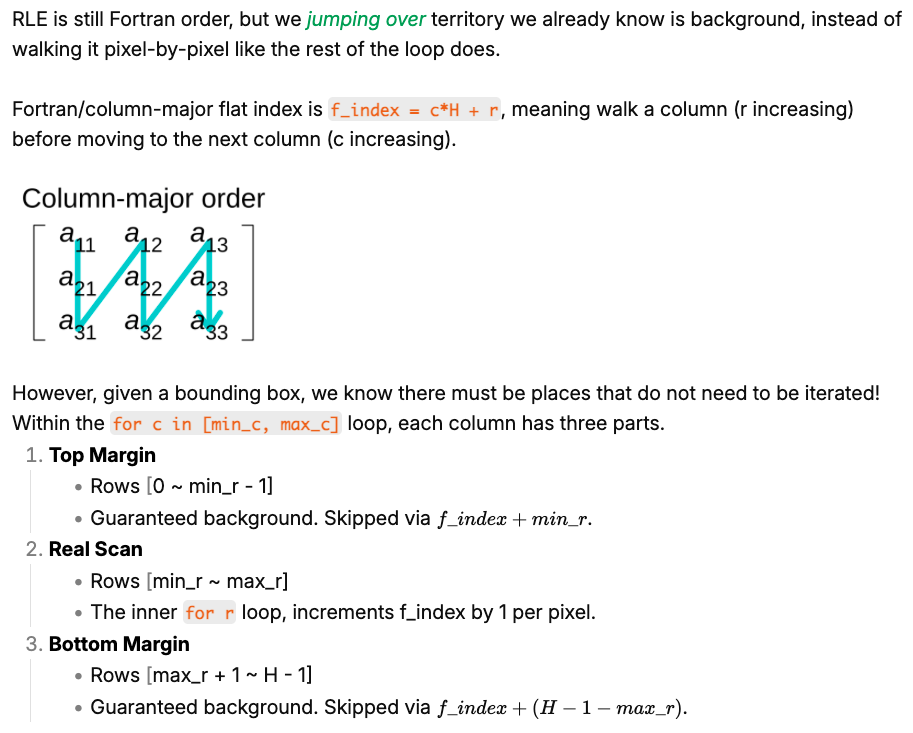
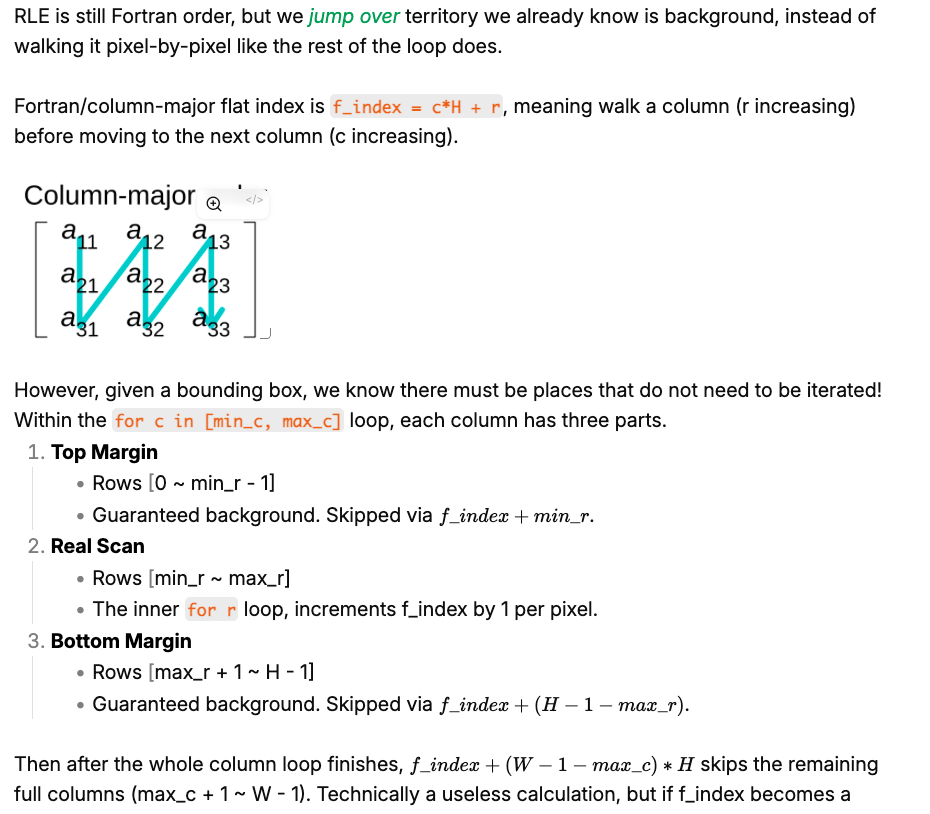
feat(nit): fixed grammar issues

Changed region(s): [[0.0, 0.1201, 0.9814, 0.9905], [0.0, 0.0, 1.0, 0.09]]

diff --git a/src/App.vue b/src/App.vue
@@ -6,16 +6,6 @@ import Footer from './sections/Footer.vue'
 
 <template>
     <SpeedInsights/>
-    <!--
-        Parallax footer reveal, CSS-only:
-        - This wrapper is at least one viewport tall and paints above the footer (z-10).
-          Its bg-fixed background stays put while the page scrolls, and is clipped to
-          the wrapper, so the footer underneath stays hidden until the content ends.
-        - The footer below is `sticky bottom-0` in normal document flow: it pins to the
-          bottom of the viewport and gets revealed as the content scrolls past it.
-        Because everything scrolls with the document (no inner scroll container, no
-        position:fixed), wheel and touch scrolling keep working over the footer.
-    -->
     <div class="relative z-10 flex min-h-svh flex-col bg-[url(/src/assets/background.jpg)] bg-cover bg-fixed text-white">
         <Navbar/>
         <RouterView v-slot="{ Component }">

diff --git a/src/views/ExperienceView.vue b/src/views/ExperienceView.vue
@@ -26,11 +26,11 @@ const timelineEntries = ref([
             },
             { 
                 image: Statsyuk2, 
-                caption: "Nearly 50% runtime saved from making introducing independent pass scheduler modes. Turns out the multipass barrier stream was not a necessity."
+                caption: "Nearly 50% runtime saved from introducing independent pass scheduler modes. Turns out the multi-pass barrier stream was not a necessity."
             },
             { 
                 image: Statsyuk3, 
-                caption: "Removing Python memory copy and serialization overhead resulted in a shocking ~10x speedup that scales inversely with foreground density." 
+                caption: "Removing Python memory copy and serialization overhead using C++ resulted in a shocking ~10x speedup that scales inversely with foreground density." 
             },
             { 
                 image: Statsyuk4, 

diff --git a/index.html b/index.html
@@ -4,7 +4,7 @@
     <meta charset="UTF-8" />
     <link rel="icon" type="image/jpeg" href="/src/assets/level-100.jpg"/>
     <meta name="viewport" content="width=device-width, initial-scale=1.0" />
-    <title>QL</title>
+    <title>Qinkai</title>
   </head>
   <body>
     <div id="app"></div>
